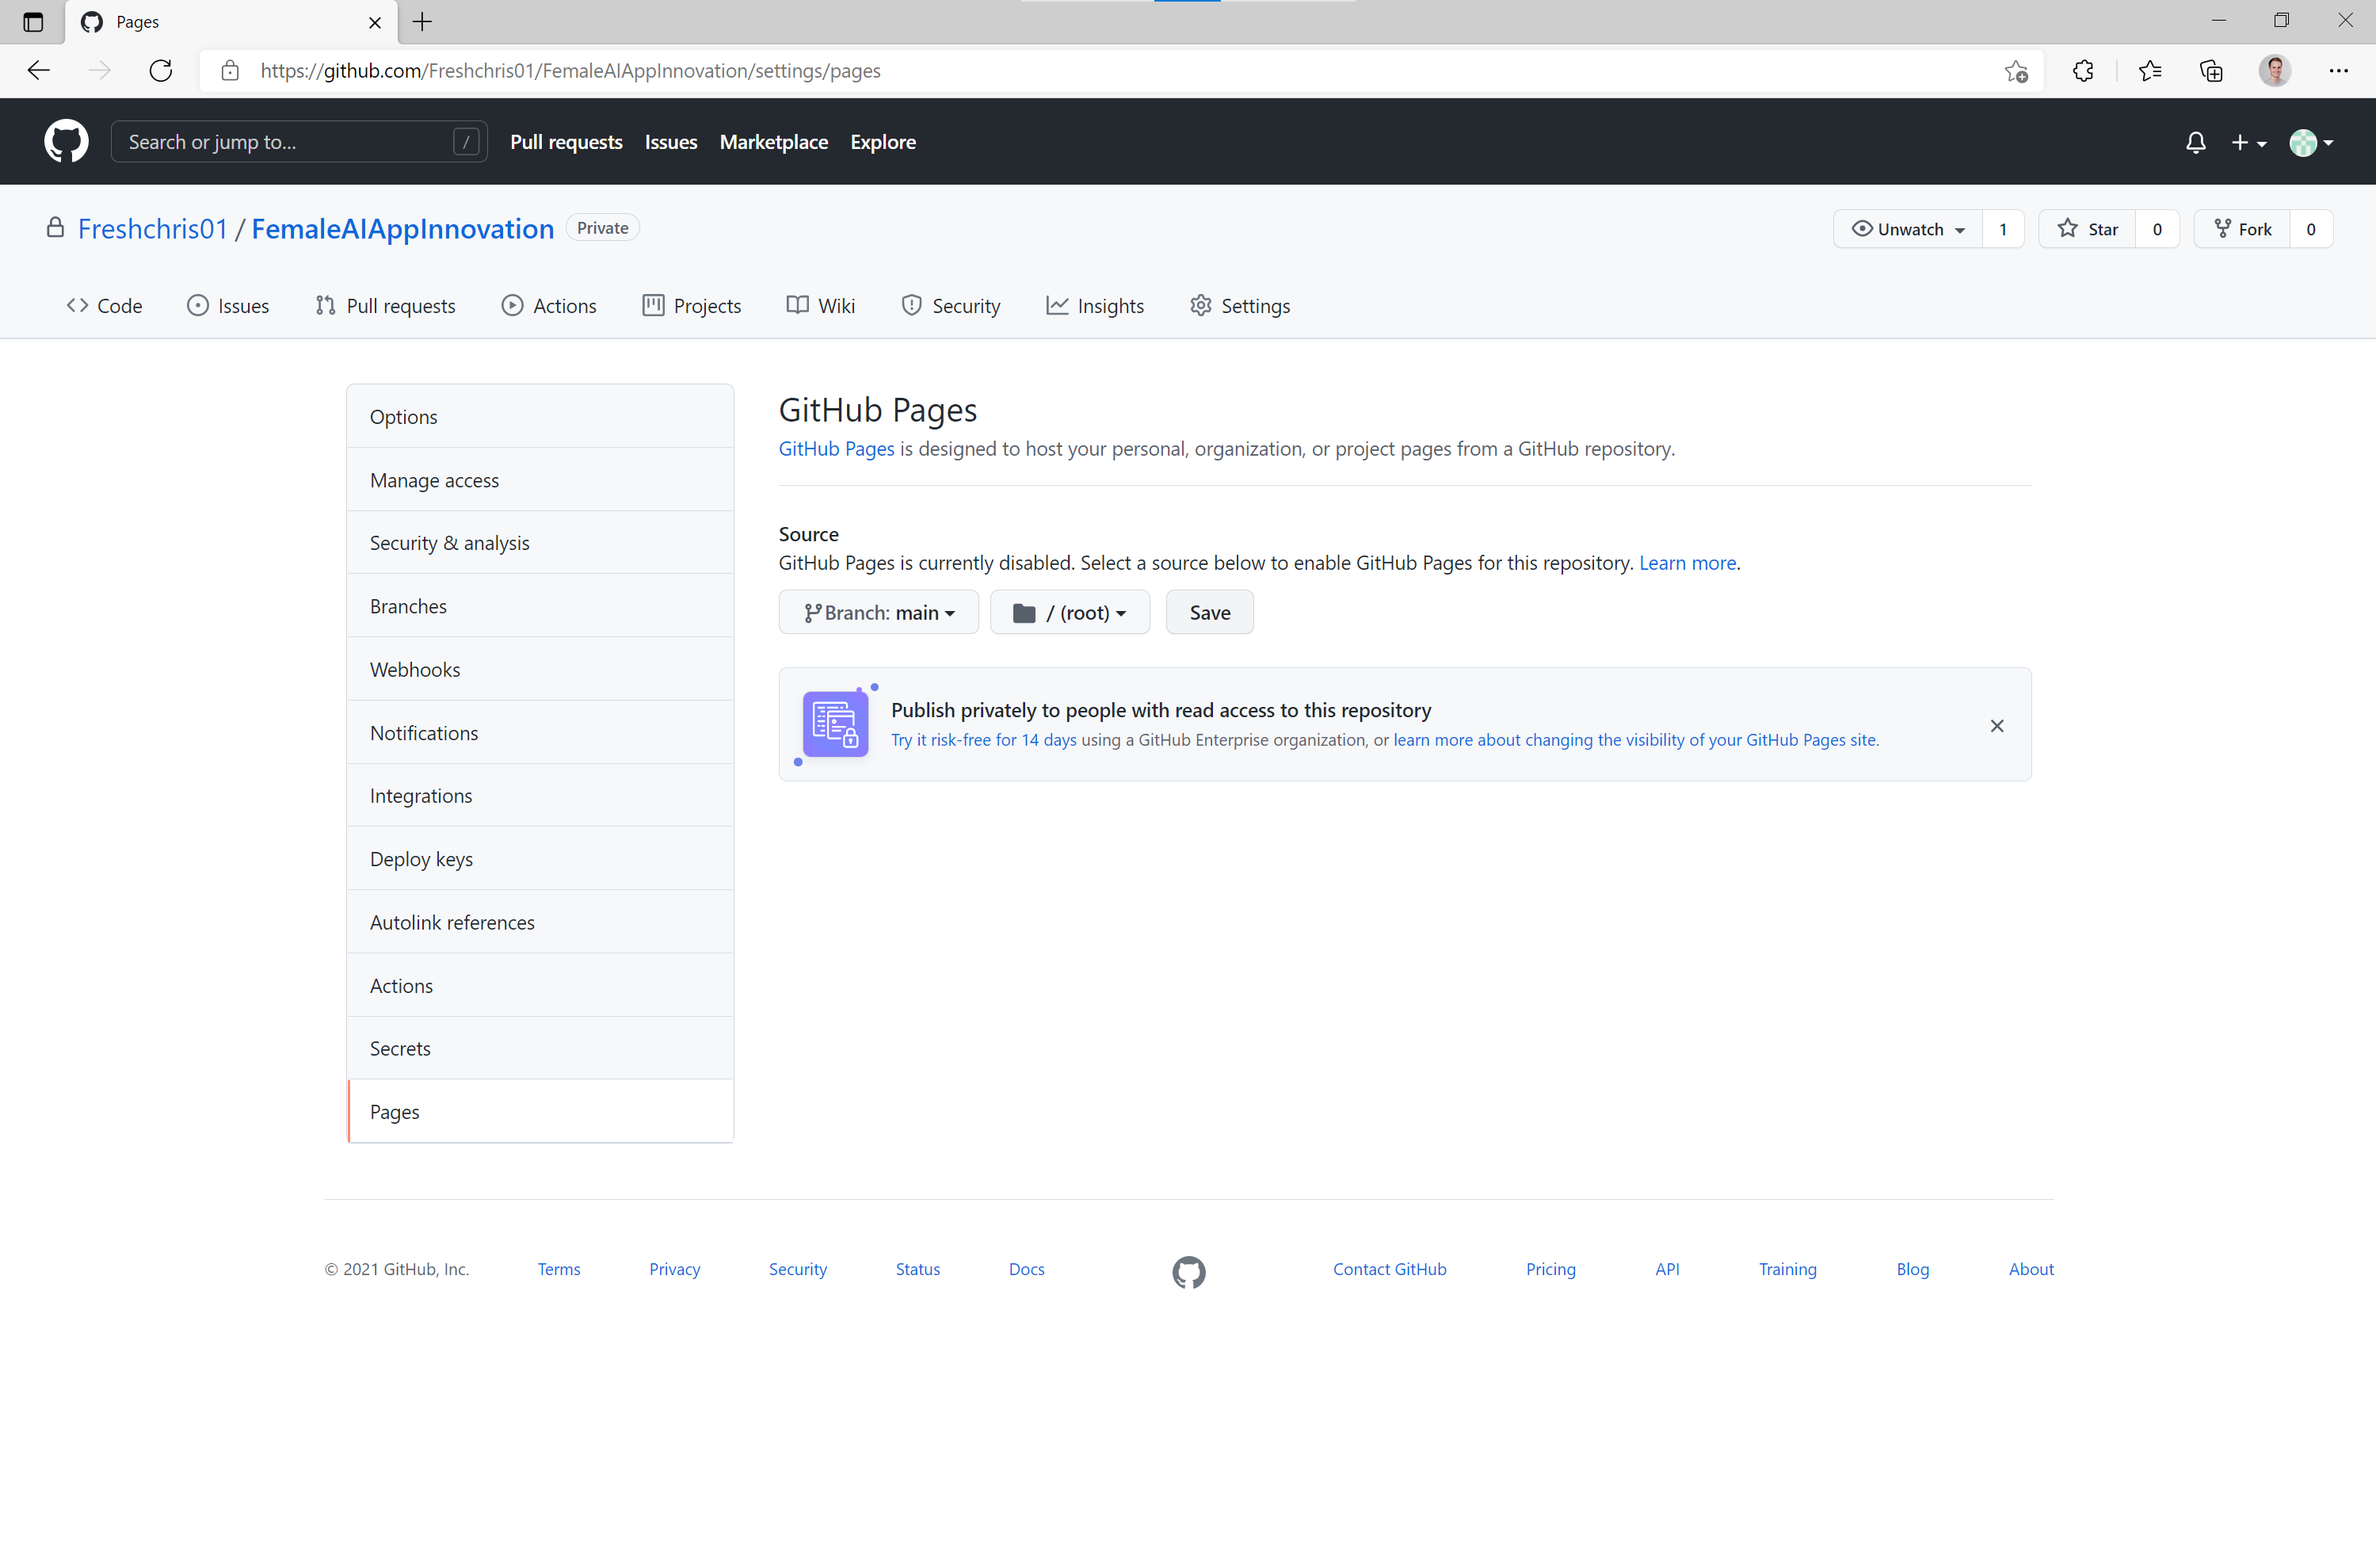
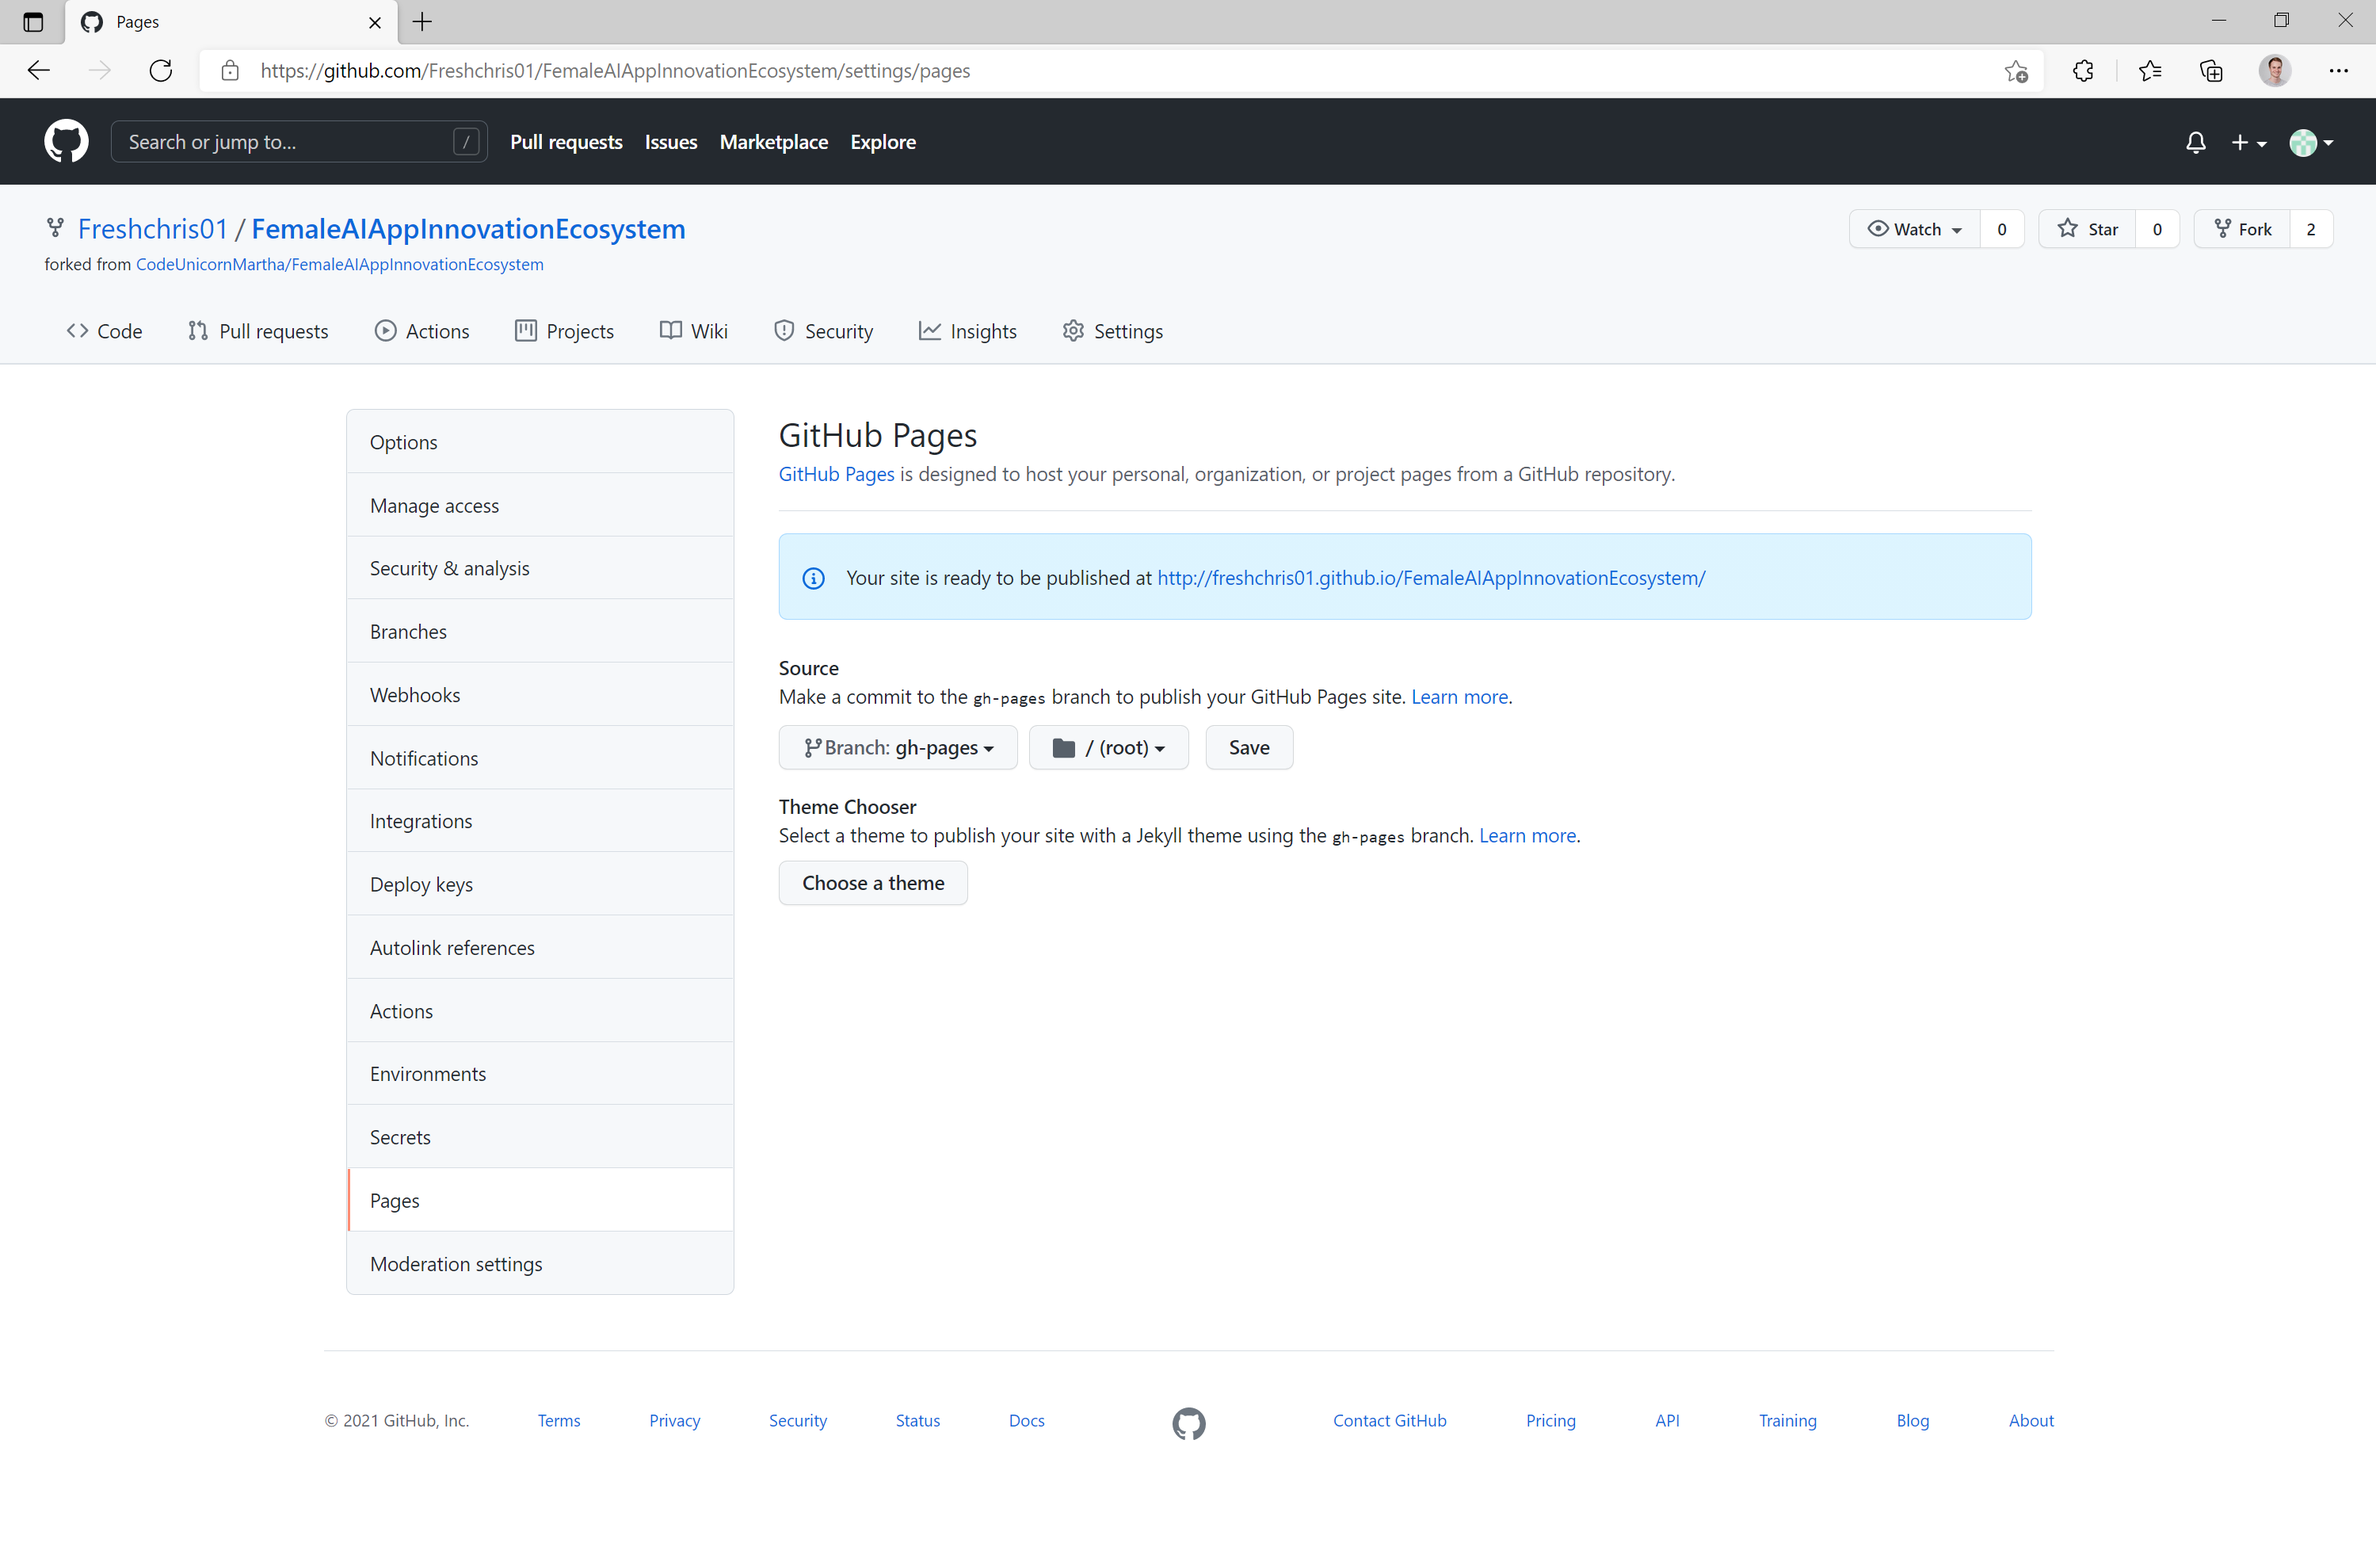
Add frontend documentation

diff --git a/day1/Application/README.md b/day1/Application/README.md
@@ -32,15 +32,24 @@ In this day you will learn how to:
 * Click the button which says *I understand my workflows, go ahead and enable them* to enable Github Actions
 ![Enable Github Actions](images/frontend_enable_action.png)
 ### Run Github Action
-// TODO: Manual execution + Challenge: Change in Codespace + push
+* In the ***Actions** tab of your repository, click on the **pages** Action
+* Open the **Run Workflow** dropdown and click the **Run Workflow** button to confirm the Action execution
+![Run Github Action](images/frontend_run_action.png)
+// TODO: Add Challenge to hange in Codespace + push
 ### Enable Github Page in Project Settings
 * Go to your repository settings
 ![Repository Settings](images/repo_main.png)
-* Navigate to **Pages**, select the branch *main* and hit the save button
+* Navigate to **Pages**, select the branch *gh-pages* and hit the save button
 ![Enable Pages](images/frontend_pages.png)
+* The deployment will take 1-2 minutes. After that, the Milligram website is accessible through `https://<your github username>.github.io/FemaleAIAppInnovationEcosystem/`
 ### Open Github Page on your phone
-### Add Application to home screen and play around
-
+* Open your personal Milligram website on your phone and explore it's content
+* Edit the profile in the app to show your own Github profile picture in the app
+![Add to homescreen 1](images/frontend_homescreen_0.jpg)
+### Add The application to your homescreen
+* Open the browser menu to add the website to your homescreen
+![Add to homescreen 2](images/frontend_homescreen_1.jpg) ![Add to homescreen 2](images/frontend_homescreen_2.jpg)
+* Now you can open the website like a normal app from the homescreen of your phone
 # Milligram Application Backend
 
 ## Deploy Image Upload
